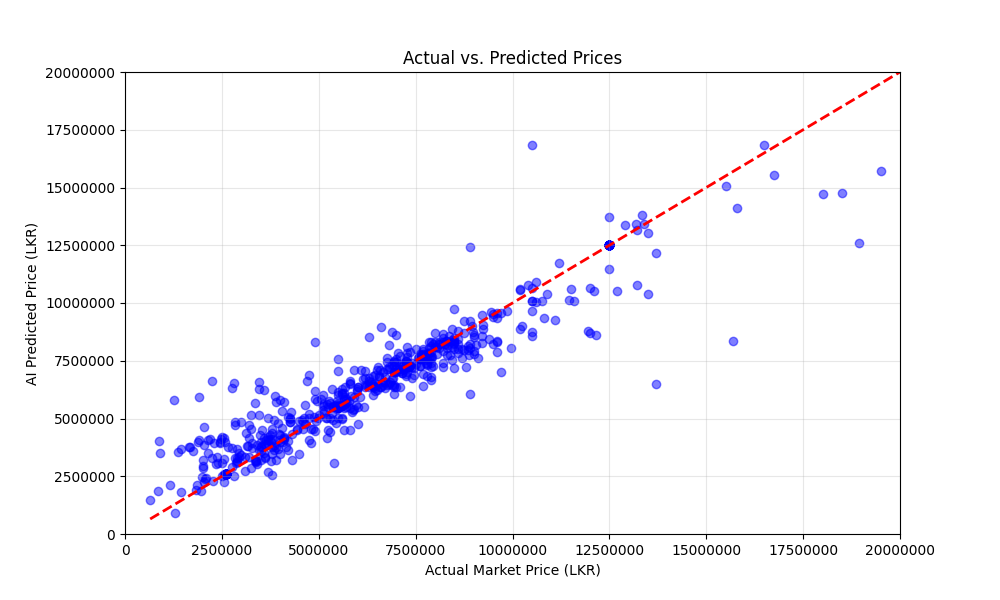
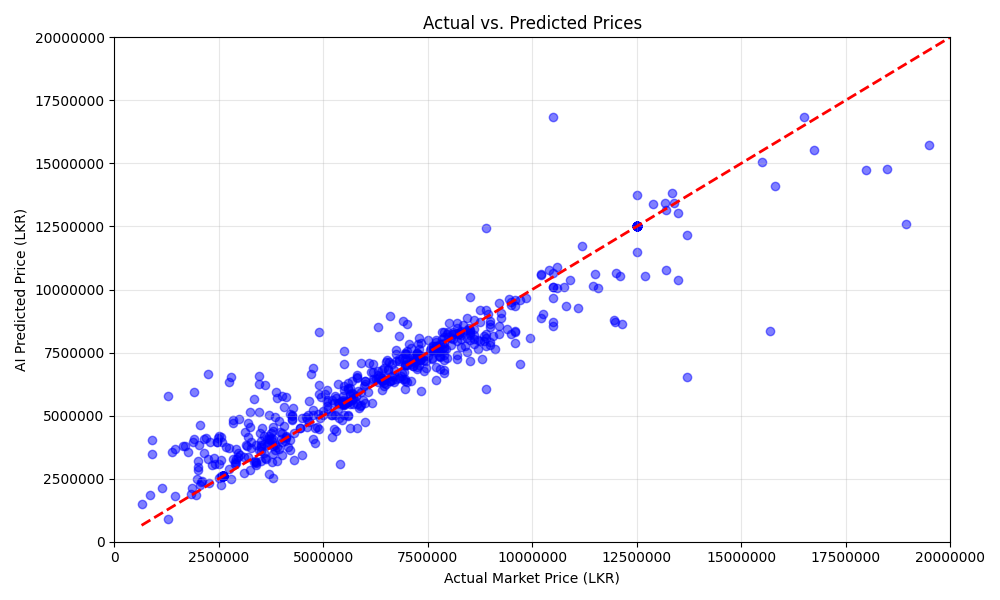
update

diff --git a/train_model.py b/train_model.py
@@ -13,23 +13,22 @@ def train_and_evaluate(data_path='patpat_ML_Ready_v2.csv', model_save_path='xgbo
         print(f"Error: Could not find '{data_path}'. Please run preprocess.py first.")
         return
         
-    # 1. Load the cleaned data
+    
     print(f"Loading data from {data_path}...")
     df = pd.read_csv(data_path)
 
-    
     df['Location'] = df['Location'].astype('category')
     df['Fuel_Type'] = df['Fuel_Type'].astype('category')
     df['Make_Model'] = df['Make_Model'].astype('category')
 
-    # 2. Split into Features (X) and Target (y)
+    
     X = df.drop('Price', axis=1)
     y = df['Price']
 
-    # 3. Train/Test Split (80% Train, 20% Test)
+   
     X_train, X_test, y_train, y_test = train_test_split(X, y, test_size=0.2, random_state=42)
 
-    # 4. Initialize the XGBoost Regressor with our Hyperparameters
+    
     model = xgb.XGBRegressor(
         n_estimators=200,
         learning_rate=0.1,
@@ -38,87 +37,127 @@ def train_and_evaluate(data_path='patpat_ML_Ready_v2.csv', model_save_path='xgbo
         random_state=42
     )
 
-    # 5. Train the Model
+    
     print("Training the XGBoost model...")
-    model.fit(X_train, y_train)
+    model.fit(X_train, y_train, eval_set=[(X_train, y_train), (X_test, y_test)], verbose=False)
     print("Training Complete!\n")
 
-    # Save the model ---
+  
     model.save_model(model_save_path)
     print(f"Model successfully saved to '{model_save_path}'\n")
 
-    # 6. Make Predictions on the Test Set
+  
     y_pred = model.predict(X_test)
 
-    # 7. Calculate Metrics
-    mae = mean_absolute_error(y_test, y_pred)
-    rmse = np.sqrt(mean_squared_error(y_test, y_pred))
-    r2 = r2_score(y_test, y_pred)
+  
+    print("="*50)
+    print(" MODEL TRAINING COMPLETED")
+    print("="*50)
+    print(f"Training Data Size : {len(X_train)} rows")
+    print(f"Testing Data Size  : {len(X_test)} rows")
+    print("-" * 50)
+    print(f"R-Squared (R2)     : {r2_score(y_test, y_pred):.4f}")
+    print(f"Mean Abs Error (MAE): Rs. {mean_absolute_error(y_test, y_pred):,.2f}")
+    print(f"Root Mean Sq (RMSE) : Rs. {np.sqrt(mean_squared_error(y_test, y_pred)):,.2f}")
+    print("="*50)
 
-    print("--- RESULTS FOR YOUR REPORT ---")
-    print(f"R-Squared (R2): {r2:.4f}")
-    print(f"RMSE: Rs. {rmse:,.0f}")
-    print(f"MAE:  Rs. {mae:,.0f}")
-    print("-------------------------------\n")
-
-    # Plot 1: Actual vs Predicted Prices
+    
     plt.figure(figsize=(10, 6))
     plt.scatter(y_test, y_pred, alpha=0.5, color='blue')
-
-    # 8. Draw a perfect prediction diagonal line
     plt.plot([y_test.min(), y_test.max()], [y_test.min(), y_test.max()], color='red', linestyle='--', linewidth=2)
-
     plt.xlim(0, 20000000) 
     plt.ylim(0, 20000000)
-
     plt.title('Actual vs. Predicted Prices')
     plt.xlabel('Actual Market Price (LKR)')
     plt.ylabel('AI Predicted Price (LKR)')
     plt.ticklabel_format(style='plain', axis='both')
     plt.grid(True, alpha=0.3)
-    
-    
+    plt.tight_layout()
     plt.savefig('actual_vs_predicted.png')
     print("Saved plot: 'actual_vs_predicted.png'")
+    plt.close()
     
-    # 9. PLOT 2: Feature Importance
+   
     plt.figure(figsize=(10, 6))
-    # Get feature importance from the model
     importances = model.feature_importances_
     features = X.columns
-    # Sort them
     indices = np.argsort(importances)
-
     plt.barh(range(len(indices)), importances[indices], color='teal', align='center')
     plt.yticks(range(len(indices)), [features[i] for i in indices])
     plt.title('XGBoost Feature Importance (What drives the price?)')
     plt.xlabel('Relative Importance')
     plt.grid(True, axis='x', alpha=0.3)
-    
-    # Save the plot
+    plt.tight_layout()
     plt.savefig('feature_importance.png')
     print("Saved plot: 'feature_importance.png'")
-    
-    
-    
-    # 10. PLOT 3: SHAP Summary Plot
+    plt.close()
+
+    plt.figure(figsize=(10, 6))
+    residuals = y_test - y_pre
+    plt.scatter(y_pred, residuals, alpha=0.5, color='royalblue')
+    plt.axhline(y=0, color='red', linestyle='--', linewidth=2)
+    plt.title('Residuals Plot (Prediction Errors)', fontsize=14)
+    plt.xlabel('Predicted Price (LKR)', fontsize=12)
+    plt.ylabel('Residual Error (Actual - Predicted)', fontsize=12)
+    plt.grid(True, alpha=0.3)
+    plt.tight_layout()
+    plt.savefig('residuals_plot.png')
+    print("Saved plot: 'residuals_plot.png'")
+    plt.close()
+
    
-    print("Calculating SHAP values... (This might take a few seconds)")
-    explainer = shap.TreeExplainer(model)
+    results = model.evals_result()
+    epochs = len(results['validation_0']['rmse'])
+    x_axis = range(0, epochs)
+
+    plt.figure(figsize=(10, 6))
+    plt.plot(x_axis, results['validation_0']['rmse'], label='Train RMSE')
+    plt.plot(x_axis, results['validation_1']['rmse'], label='Test RMSE')
+    plt.title('XGBoost Learning Curve', fontsize=14)
+    plt.xlabel('Boosting Iterations (Trees)', fontsize=12)
+    plt.ylabel('RMSE', fontsize=12)
+    plt.legend()
+    plt.grid(True, alpha=0.3)
+    plt.tight_layout()
+    plt.savefig('learning_curve.png')
+    print("Saved plot: 'learning_curve.png'")
+    plt.close()
     
-    # Calculate SHAP values
+   
+    print("\nCalculating SHAP values... (This might take a few seconds)")
+    explainer = shap.TreeExplainer(model)
     shap_values = explainer.shap_values(X_test)
     
-    # Generate the SHAP Summary Plot
     plt.figure(figsize=(10, 6))
     plt.title("SHAP Summary Plot: How Features Impact Vehicle Price", fontsize=14)
     shap.summary_plot(shap_values, X_test, show=False) 
-    
-   
     plt.tight_layout()
     plt.savefig('shap_summary.png')
     print("Saved plot: 'shap_summary.png'")
-   
+    plt.close()
+
+    
+    print("\nGenerating SHAP Waterfall Plot...")
+    
+  
+    row_to_show = 0 
+    
+    plt.figure(figsize=(10, 6))
+    
+    
+    shap_object = shap.Explanation(values=shap_values[row_to_show], 
+                                   base_values=explainer.expected_value, 
+                                   data=X_test.iloc[row_to_show],  
+                                   feature_names=X_test.columns)
+    
+  
+    shap.waterfall_plot(shap_object, show=False)
+    
+    plt.title(f"SHAP Waterfall: Price Breakdown for Test Vehicle #{row_to_show}", fontsize=14)
+    plt.tight_layout()
+    plt.savefig('shap_waterfall.png')
+    print("Saved plot: 'shap_waterfall.png'\n")
+    plt.close()
 
 if __name__ == "__main__":
     train_and_evaluate()

diff --git a/app.py b/app.py
@@ -193,7 +193,7 @@ st.markdown("""
 """, unsafe_allow_html=True)
 
 
-# 3. Load Models, Explainer, and Categories
+
 
 @st.cache_resource
 def load_models():
@@ -214,7 +214,7 @@ def load_models():
 
 model, explainer, make_models_list, locations, fuel_types, raw_df = load_models()
 
-# Create Cascading Dictionary
+
 car_dictionary = {}
 for item in make_models_list:
     parts = str(item).split(" ", 1)
@@ -263,7 +263,7 @@ if predict_button:
     # Predict Price
     prediction = model.predict(input_df)[0]
     
-    # 1. Top Span: Massive High-End Price Component
+  
     st.markdown(f"""
     <div class="price-card">
         <div class="price-label">Real-Time Algorithmic Valuation</div>
@@ -272,12 +272,12 @@ if predict_button:
     </div>
     """, unsafe_allow_html=True)
     
-    # Layout definition inside the results
+  
     col1, col2 = st.columns([1, 1.4], gap="large") 
     
     with col1:
         st.markdown('<div class="section-title">Vehicle Identity</div>', unsafe_allow_html=True)
-        # Beautiful Tabular Specs Card
+       
         st.markdown(f"""
         <div class="info-card">
             <div class="info-item">
@@ -316,17 +316,16 @@ if predict_button:
      
     
         try:
-            # Generate the SHAP object
+          
             shap_obj = explainer(input_df)
             
-            # Setup pure white background for the plot for better visibility
+           
             fig, ax = plt.subplots(figsize=(8, 6), facecolor="white")
             
-            # Customizing the waterfall plot lines and colors inherently isn't fully supported via kwargs, 
-            # but we can configure the plot figure.
+           
             shap.plots.waterfall(shap_obj[0], show=False)
             
-            # Formatting title and outputting
+            
             plt.title("How Specific Technical Features Shifted The Baseline Price", fontsize=11, color="#2C3E50", pad=20, weight='bold')
             plt.tight_layout()
             
@@ -337,7 +336,7 @@ if predict_button:
             
         st.markdown('</div>', unsafe_allow_html=True)
 
-    # --- Horizontal Divider & New Analytics Section ---
+    
     st.markdown('<br>', unsafe_allow_html=True)
     st.markdown('<div class="section-title">Market Analytics & Trends</div>', unsafe_allow_html=True)
     
@@ -393,7 +392,7 @@ if predict_button:
         st.plotly_chart(fig2, use_container_width=True)
         st.markdown('</div>', unsafe_allow_html=True)
 
-    # --- New Row for 2 Additional Charts ---
+   
     st.markdown('<br>', unsafe_allow_html=True)
     
     col5, col6 = st.columns(2, gap="large")
@@ -401,15 +400,14 @@ if predict_button:
     with col5:
         
         st.markdown('<h4 style="color:#A0B2C6; font-size: 1.1rem; margin-top:0; margin-bottom:15px; font-weight:600;"><span style="color:#00FFD1;">📊</span> Similar Vehicles in Market</h4>', unsafe_allow_html=True)
-        
-        # Filter raw data for similar models
+      
         similar_cars = raw_df[raw_df['Make_Model'] == combined_make_model]
         
         if len(similar_cars) > 1:
             fig3 = px.histogram(similar_cars, x='Price', nbins=15)
             fig3.update_traces(marker_color='rgba(0, 255, 209, 0.6)', marker_line_color='#00FFD1', marker_line_width=1.5)
             
-            # Add a vertical line showing exactly where our prediction sits
+           
             fig3.add_vline(x=prediction, line_width=3, line_dash="dash", line_color="#E0E6ED", 
                            annotation_text="Your Valuation", annotation_position="top", annotation_font_color="white")
             
@@ -430,7 +428,7 @@ if predict_button:
         
         st.markdown('<h4 style="color:#A0B2C6; font-size: 1.1rem; margin-top:0; margin-bottom:15px; font-weight:600;"><span style="color:#00FFD1;">📍</span> Price Variation by Major Cities</h4>', unsafe_allow_html=True)
         
-        # Take the top 8 most frequent locations in the whole dataset
+       
         top_locs = raw_df['Location'].value_counts().head(8).index.tolist()
         loc_prices = []
         for loc in top_locs:
@@ -450,7 +448,7 @@ if predict_button:
             yaxis=dict(showgrid=False, title=""),
             margin=dict(l=10, r=10, t=10, b=10)
         )
-        # Highlight the current selected location if it's in the top 8
+        
         if selected_location in top_locs:
             colors = ['#00FFD1' if loc == selected_location else 'rgba(0, 255, 209, 0.3)' for loc in chart_data4['Location']]
             fig4.update_traces(marker_color=colors)
@@ -459,7 +457,7 @@ if predict_button:
         st.markdown('</div>', unsafe_allow_html=True)
 
 else:
-    # Beautiful empty state
+    
     st.markdown("""
     <div style="background-color: #0F2027; background-image: linear-gradient(180deg, #0F2027 0%, #203A43 100%); border: 1px dashed rgba(255,255,255,0.2); border-radius: 12px; padding: 60px 20px; text-align: center; margin-top: 40px; box-shadow: 0 8px 20px rgba(0,0,0,0.2);">
         <h3 style="color: #00FFD1; font-weight: 600;">Awaiting Inputs</h3>

diff --git a/preprocess.py b/preprocess.py
@@ -41,14 +41,14 @@ def preprocess_data(input_file='patpat_targeted_data.csv', output_file='patpat_M
     df_clean['Price'] = df_clean['Price'].astype(int)
     df_clean['Mileage'] = df_clean['Mileage'].astype(int)
 
-    # 9. ENCODING: formally declare the text columns as categories for XGBoost
+    # 9. formally declare the text columns as categories for XGBoost
     df_clean['Location'] = df_clean['Location'].astype('category')
     df_clean['Fuel_Type'] = df_clean['Fuel_Type'].astype('category')
     df_clean['Make_Model'] = df_clean['Make_Model'].astype('category')
 
     print(f"Cleaned dataset size: {df_clean.shape}")
 
-    # 10. Save the ML-Ready dataset permanently
+    # 10. Save the ML-Ready dataset
     df_clean.to_csv(output_file, index=False)
     print(f"Data fully cleaned, encoded, and saved as '{output_file}'!")
 
